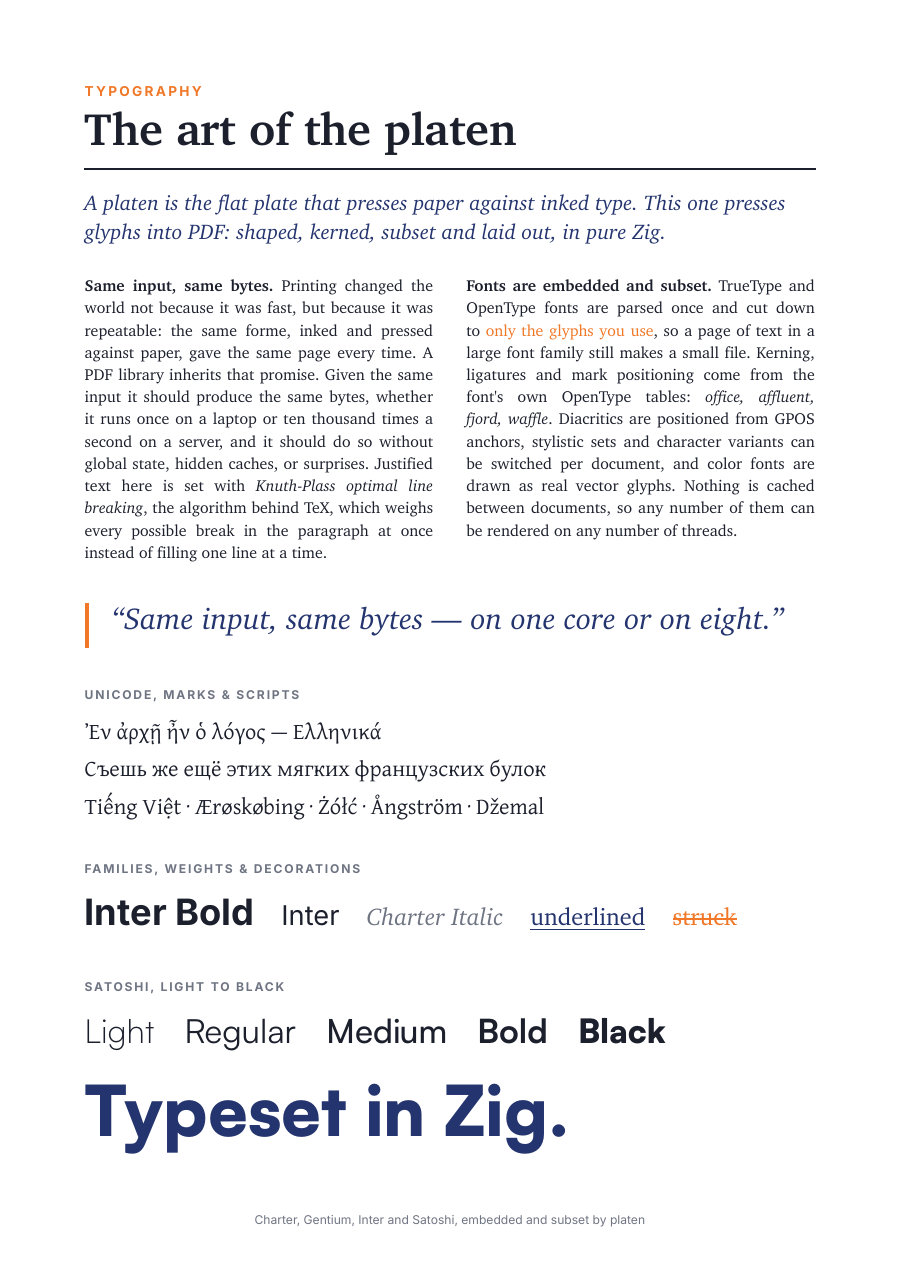
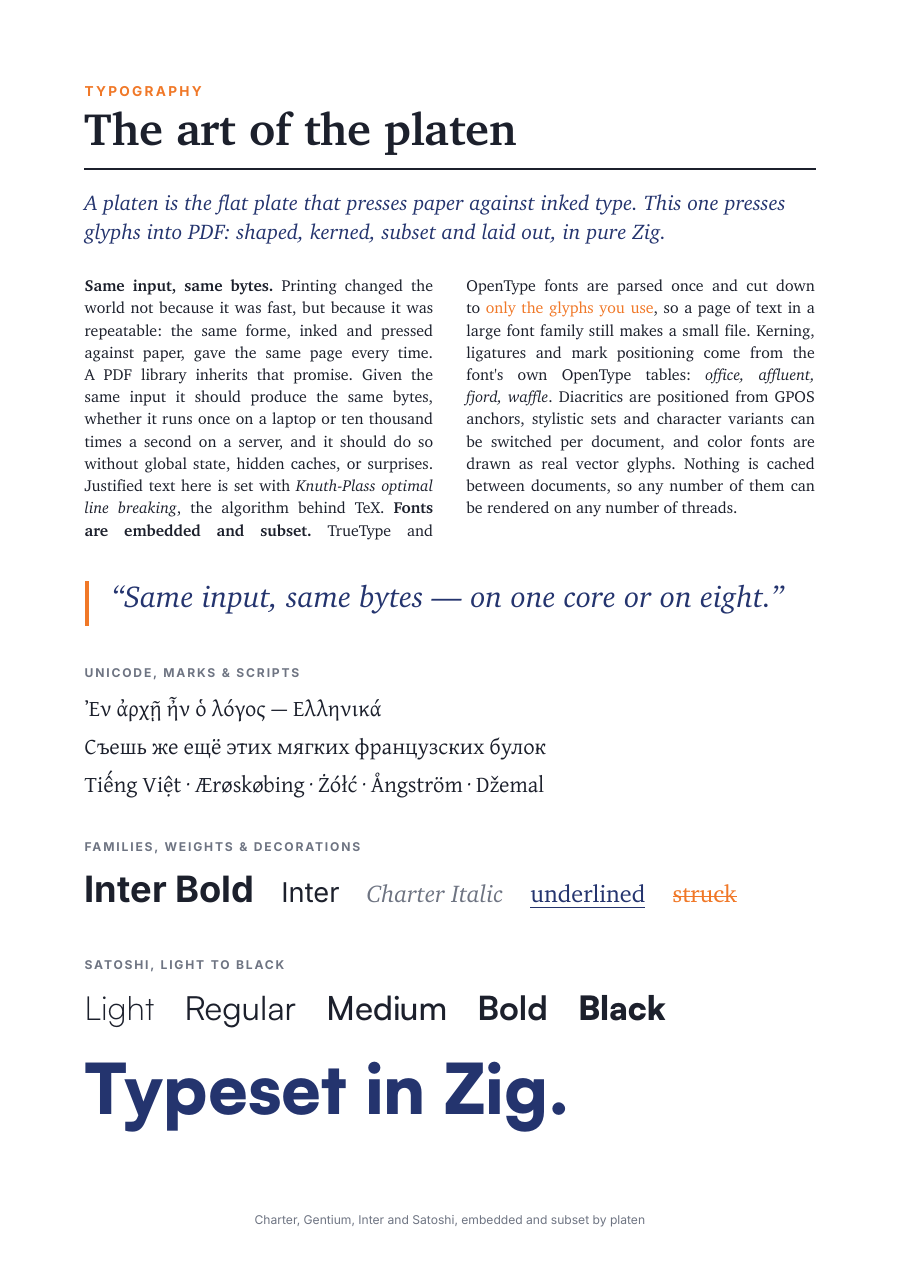
writeStyled: resume_word / start_word to continue styled text
WriteResult.overflow is a []const u8 and for styled text held only the
rest of one span; later spans and all styling were lost. writeStyled now
returns resume_word (first word not written) and takes
ParagraphOptions.start_word, so the same StyledText continues in the
next region with every span intact. Stateless and allocation-free; greedy,
optimal (Knuth-Plass from the resume point) and middle/bottom valign all
start there. overflow is unchanged.

Test: chained 2-line regions draw the same (font, text) runs as one tall
region, for both line-breaking modes. The showcase now flows one
paragraph across both columns this way.

diff --git a/TODO.md b/TODO.md
@@ -173,11 +173,19 @@ into later runs, gradient stops borrowed instead of copied. Still open:
   draw a dotted i under the mark; fonts fix that in `ccmp` (soft-dotted
   i -> dotless ı before above-marks; Gentium uses chain-context format
   1/2 lookups, which the GSUB engine does not parse yet - only format 3).
-- [ ] **`writeStyled` overflow drops later spans.**
+- [x] **`writeStyled` overflow drops later spans.** (done 2026-10-21:
+  `resume_word` / `start_word`, user decision; `overflow` kept as is)
   `StyledText.getTextFromWord` returns the rest of ONE span, so
   `WriteResult.overflow` silently loses every following span (and all
   styling). Needs an API decision: a continuation (word index / resumable
   StyledText) instead of `[]const u8`. Breaking - decide before 1.0.0.
+- [ ] **Oversized words are truncated at a region boundary.** A word
+  wider than the line is split (soft hyphen, else per character) in the
+  greedy path; when the region runs out mid-word the rest is dropped and
+  layout continues with the next word (`did_break` -> `line_start + 1`).
+  A word index cannot express "half a word" for `resume_word`; options:
+  move the whole word to the next region when it doesn't fit (unless the
+  region is empty), or a resume point with a byte offset.
 - [x] **`platen.Path` is not exported** (done 2026-10-21) from the root module (only
   `document.Path`), so users can't name the type returned by
   `createPath()` in their own helpers (showcase uses `anytype`).

diff --git a/README.md b/README.md
@@ -313,6 +313,24 @@ try st.append("colored text", .{ .color = platen.Color.blue });
 _ = try doc.writeStyled(&region, &st, style, .{ .alignment = .justify });
 ```
 
+#### Continuing styled text in the next region
+
+When a styled paragraph doesn't fit, `writeStyled` returns `resume_word`:
+the first word that wasn't written. Pass it back as `start_word`, with the
+same unchanged `StyledText`, to continue in the next column or page. Every
+span keeps its style. (`overflow` holds only the rest of the span where
+writing stopped, so use `resume_word` for styled text.)
+
+```zig
+var opts = platen.ParagraphOptions{ .alignment = .justify, .line_breaking = .optimal };
+var column = left_column;
+while (true) {
+    const res = try doc.writeStyled(&column, &st, style, opts);
+    opts.start_word = res.resume_word orelse break;
+    column = next_column; // or doc.addPage(...) and a fresh region
+}
+```
+
 #### Optical Top Alignment
 
 The default `.top` vertical alignment uses **cap-height optical alignment** — capital letters touch the top edge of the region, using real font metrics from the OS/2 table. This produces tighter, more visually precise layouts than the traditional half-leading approach.

diff --git a/CHANGELOG.md b/CHANGELOG.md
@@ -4,6 +4,13 @@
 
 ### Added
 
+- **Continuing styled text across regions:** `WriteResult.resume_word`
+  (the first word that did not fit) and `ParagraphOptions.start_word`.
+  Call `writeStyled` again with the same `StyledText` and
+  `start_word = resume_word` to continue in the next column or page with
+  every span and style intact. Before, the only continuation was
+  `overflow`, which for styled text holds just the rest of one span -
+  later spans were silently lost.
 - `platen.Path`: the path builder type returned by `doc.createPath()` is
   now exported, so helpers can take a `*platen.Path`.
 
